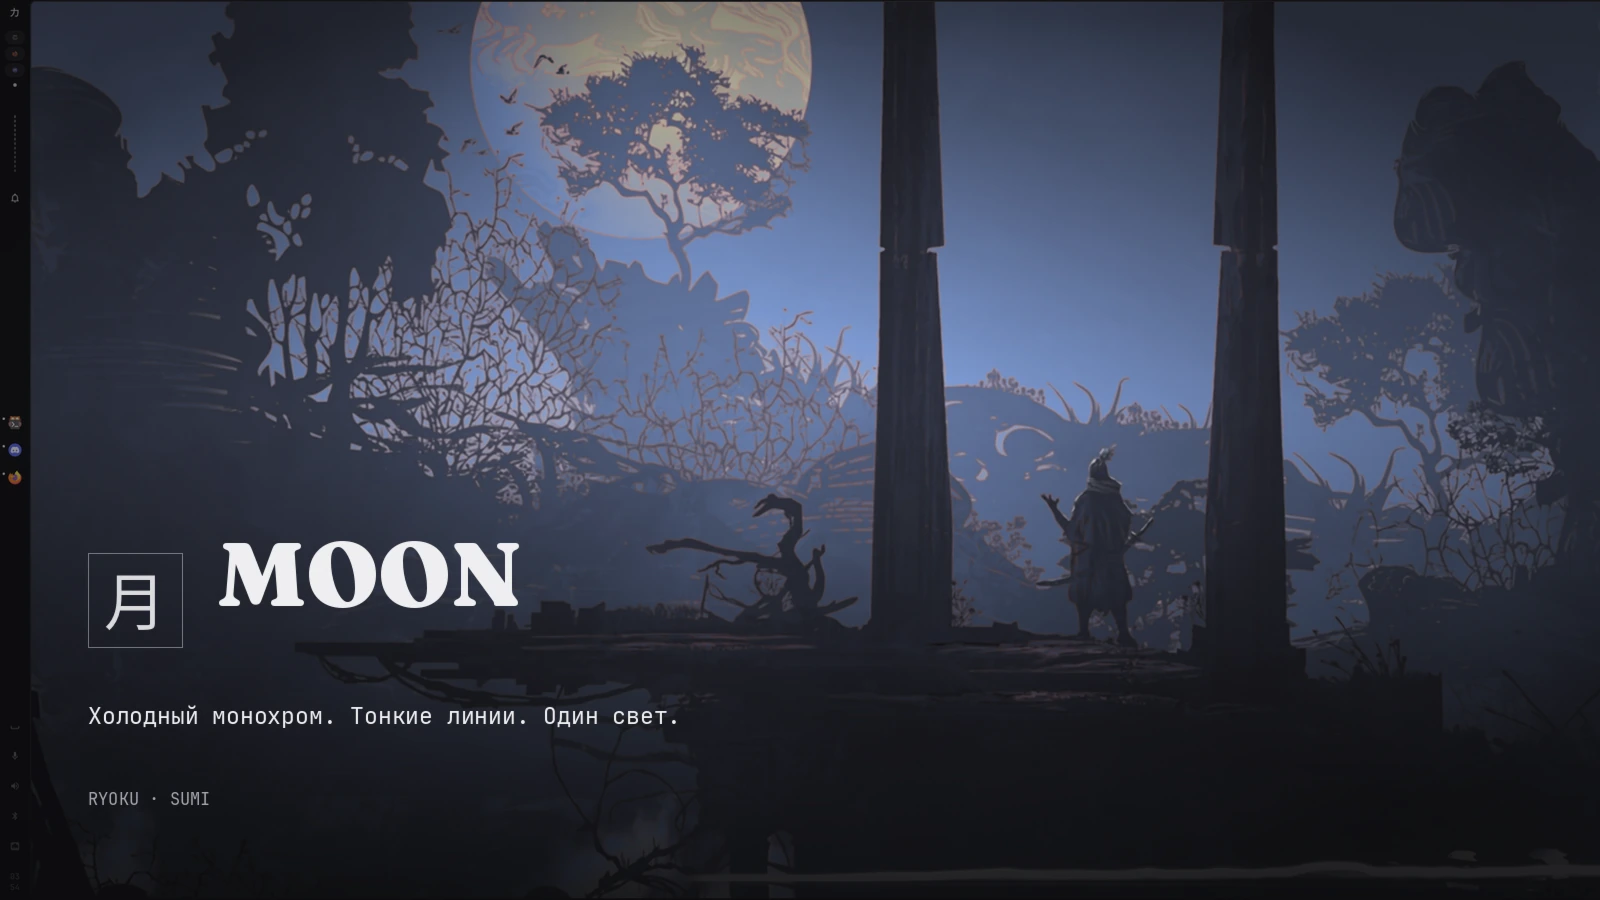
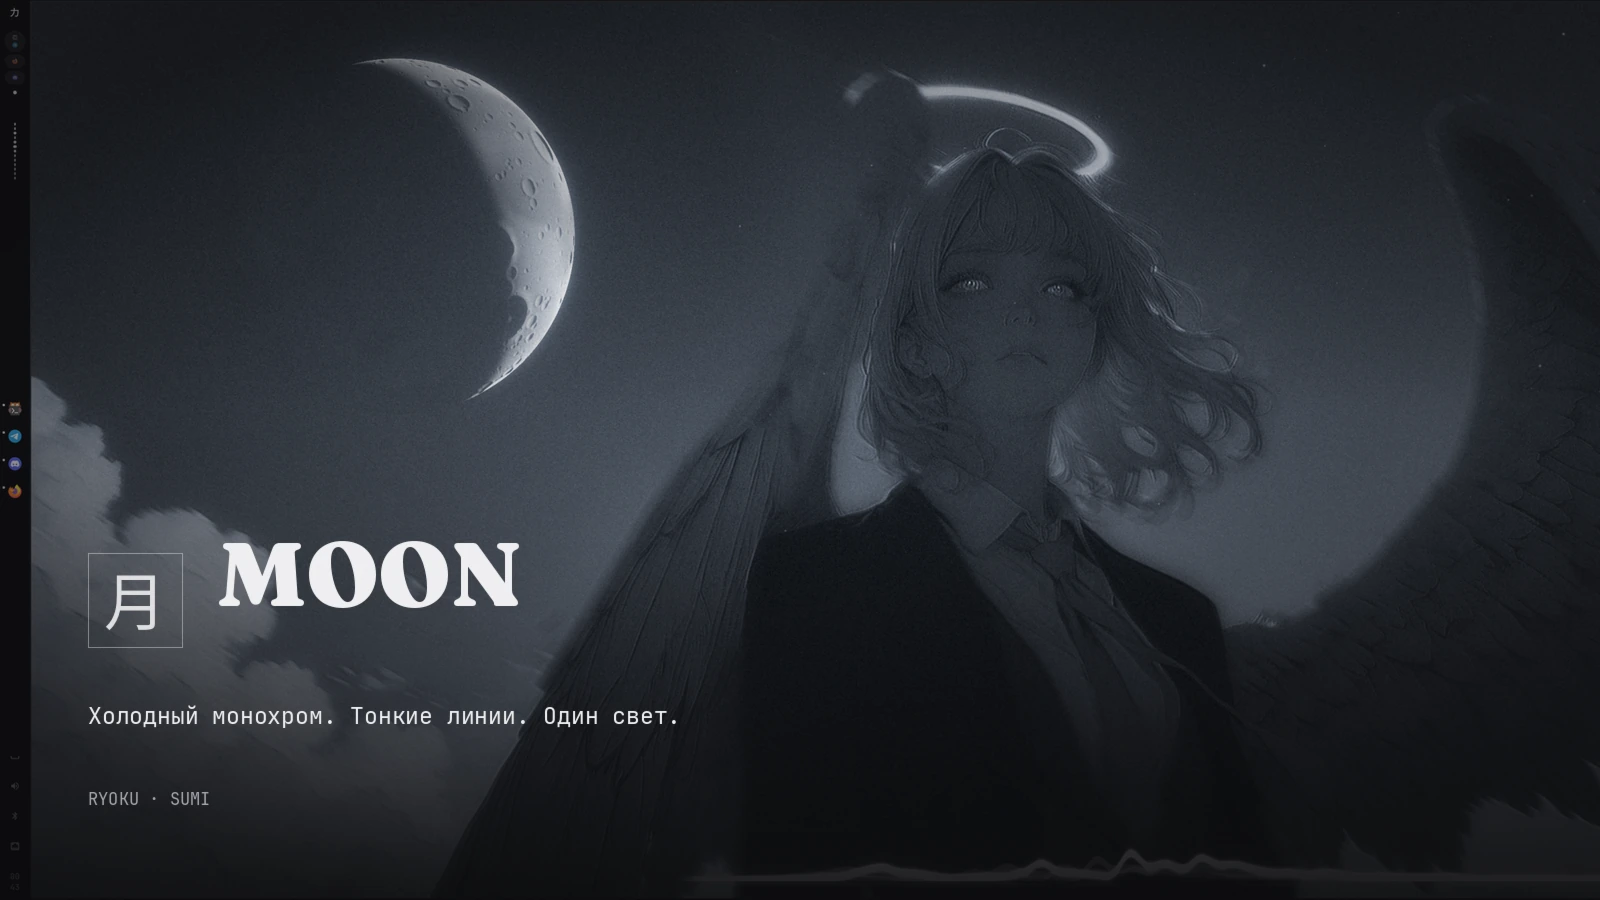
feat(wall): final 4K wallpaper from Alan, rice asset, store card and catalogue revalidated

diff --git a/README.md b/README.md
@@ -55,7 +55,7 @@ paper/ink-тиры (`.88`, `.68`), линии `.26/.13/.42`, заливки `.05
 - ~~импорт в каталог: `rice list` → `moon compat=ok`~~
 - [ ] печать 月: capture 1.0.9 больше не пишет `layers` — перенесена в бренд Store-карточки (P4)
 - ~~гейт: `apply` → `restore previous`; откат вернул `shell.json`, `theme.json` и `colors.json` байт-в-байт~~
-- [ ] обои: ассет делает Алан (фото или генерация), рис ждёт файл
+- ~~обои: ассет пришёл от Алана 15.11.2026 (`refs/walls/angel1-moon-4k-4496x2192.png`), собран `rices/moon/wall.webp` 3440×1440~~
 - [ ] находка гейта: обои риса не применились (`ryogami` оставил прежний `lastAppliedKey`), чинить в P4
 - [ ] скриншоты 3440/1920 — отложены отдельным заходом
 - ~~niri: в README `docs/README.md` §«niri» — честное «скоро», проверка отдельным заходом~~
@@ -77,7 +77,7 @@ paper/ink-тиры (`.88`, `.68`), линии `.26/.13/.42`, заливки `.05
 - ~~`tests/validate-catalogue.sh` в клоне ryostore: запись плагина проходит (`store catalogue OK`)~~
 - ~~карточка Store с печатью 月: `tools/make-card.py` + `rices/moon/assets/preview.webp` (реальный снимок 1600×900)~~
 - ~~запись риса в магазине: `tools/build-store.py` → `dist/store/rices/moon`, проходит `validate-store.py --require-media` в клоне~~
-- [ ] переснять карточку на финальных обоях Алана (сейчас снята на текущих)
+- ~~карточка Store переснята на финальных обоях Алана~~
 - [ ] `ryoku-hub rice publish moon <ryostore>` + PR — только по «добро» Алана
 - ~~шрифты: трио записано в рис, гейт 15 px провален по кириллице → UI на mono (откат по решению)~~
 - ~~рейлы sumi: рис теперь владеет `look.shell.frameBars.rails` (левый + правый)~~

diff --git a/refs/walls/README.md b/refs/walls/README.md
@@ -7,7 +7,8 @@
 | файл | откуда | что это |
 | --- | --- | --- |
 | `angel1-2248x1096.png` | обои, которые Алан поставил 14.11.2026 (`~/Pictures/Wallpapers/Angel1.png`, sha256 `bc3086…6174`) | исходник для лунной темы: один источник света, крылья, гало. Права — у автора картинки; файл лежит здесь как личный референс, а не как распространяемый ассет. |
-| `angel1-moon-candidate.webp` | `tools/make-wall.py` из файла выше, 2560×1440 | кандидат обоев: монохром, холодные тени, гало как единственный свет, вигнет и зерно 0.10. Не финал — Алан делает свою версию. |
+| `angel1-moon-candidate.webp` | `tools/make-wall.py` из файла выше, 2560×1440 | первый кандидат обоев (монохром, холодные тени, вигнет, зерно) — оставлен как история поиска. |
+| `angel1-moon-4k-4496x2192.png` | обои от Алана 15.11.2026 (`~/Downloads/Telegram Desktop/angel1-moon-4k.png`, sha256 `ac9e23a6…`) | **действующий ассет**: ангел с гало и серп Луны, монохром. Из него собран `rices/moon/wall.webp` (3440×1440) и карточка Store. |
 
 Как из такого исходника делается обои риса — `tools/make-card.py` (для карточки)
 и будущий `tools/make-wall.py`: обесцветить, остудить тень, вигнет, зерно 0.10,

diff --git a/docs/DECISIONS.md b/docs/DECISIONS.md
@@ -27,7 +27,7 @@
 | Цвет обоев | `color: fixed` + `palette.json`, чтобы монохром не плыл за обоями |
 | Печать бренда | 月 (универсально: и луна, и месяц), в `layers.brand.markText` |
 | Зерно | 0.10, только на превью и обложке Store, никогда под текстом |
-| Обои | v1 отклонены 14.11.2026. Ассет делает сам Алан (найдёт фото или сгенерит), не мы; P4 ждёт файл |
+| Обои | v1 отклонены 14.11.2026; 15.11.2026 Алан дал финальный 4K-ассет (ангел с гало и серпом). Он собран в `rices/moon/wall.webp` 3440×1440, карточка снята на нём; альтернативный дуотон-рецепт — `tools/make-wall.py` |
 | Палитра | v1 — только холодный Moon; `Moon Warm` (`#E3CFA6`) — отдельная запись в P6 |
 | Ультравайд | рис универсальный; `moon-ultrawide` — личный fork Алана, не в магазин |
 | Виджеты | в v1 только бар (`topbarGlyph`); виджеты на сцене — позже, отдельными записями |

diff --git a/CHANGELOG.md b/CHANGELOG.md
@@ -1,5 +1,19 @@
 # CHANGELOG
 
+## 0.8.0 — 2026-11-15
+
+- Обои Moon готовы: Алан прислал 4K-версию (ангел с гало и серпом Луны,
+  4496×2192). Исходник — `refs/walls/angel1-moon-4k-4496x2192.png`, ассет риса —
+  `rices/moon/wall.webp` (3440×1440, 709 КБ), живой рабочий стол поставлен
+  `ryogami wallpaper set`.
+- Карточка Store переснята на новых обоях (`tools/make-card.py` → 1600×900),
+  запись магазина пересобрана и проходит `validate-store.py --categories rices
+  --require-media` и `validate-catalogue.sh` (на свежем клоне ryostore).
+- Каталог локального риса синхронизирован: `~/.config/ryoku/rices/moon` получил
+  новый `wall.webp`, `rice.json` и `assets/preview.webp`.
+- Сайт брифа: вкладка «06 рис» показывает дуотон уже на новых обоях.
+- Публикаций нет.
+
 ## 0.7.1 — 2026-11-14
 
 - Обои Алана лежат в репозитории отдельным файлом: `refs/walls/angel1-2248x1096.png`

diff --git a/docs/README.md b/docs/README.md
@@ -171,8 +171,9 @@ ryoku-hub rice fork moon
 ryogami wallpaper set /путь/к/картинке
 ```
 
-Финальный ассет для Moon готовит автор (Алан); до него в репозитории лежит
-временная картинка.
+Финальный ассет для Moon пришёл от автора (Алан, 15.11.2026): ангел с гало и
+серпом Луны. Он лежит в `rices/moon/wall.webp` (3440×1440) и в `refs/walls/`
+как исходник 4K; карточка Store снята уже на нём.
 
 ## Терминал: почему ANSI-цвета не из риса
 
